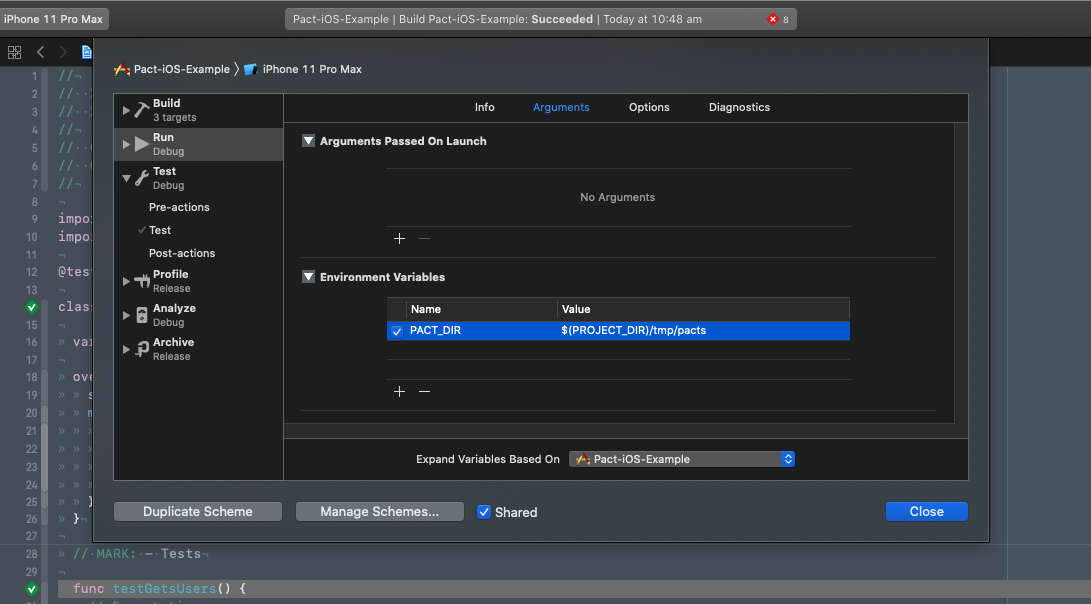
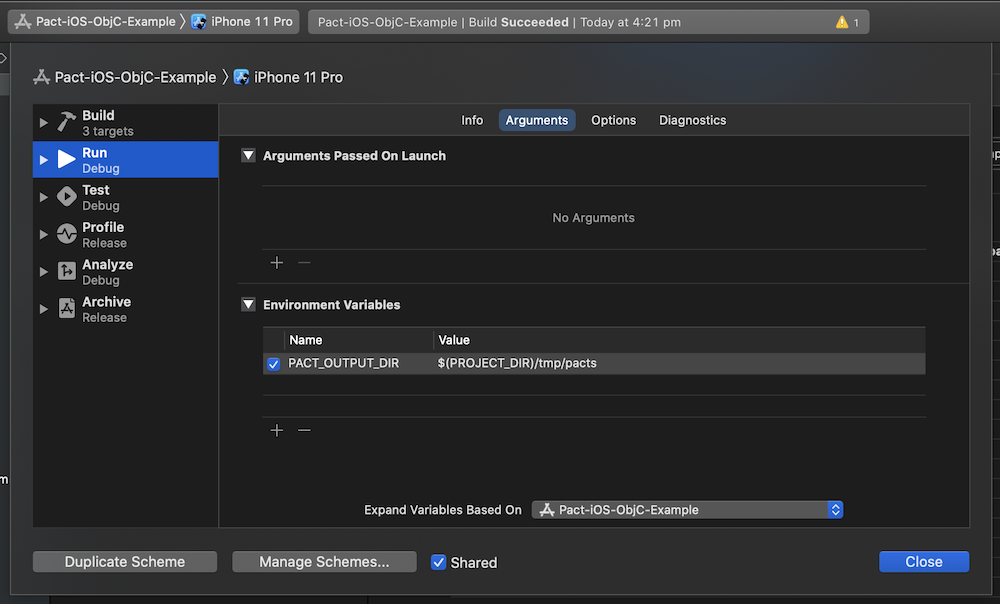
Update README and github templates

diff --git a/README.md b/README.md
@@ -29,7 +29,7 @@ The one major advantage of this framework over [`pact-consumer-swift`][pact-cons
 ### Carthage
 
 ```sh
-github "surpher/PactSwift" ~> 0.1
+github "surpher/PactSwift" ~> 0.3
 ```
 
 ```sh
@@ -56,13 +56,13 @@ swift test -Xlinker -LRelativePathTo/libFolder
 
 ⚠ Using `PactSwift` through SPM requires you to link a `libpact_mock_server.a` for the appropriate architecture. You can find them in `/Resources/` folder.
 
-You can compile your own static lib from [pact-reference/rust][pact-reference-rust] project.
-
-⚠ We're looking for an alternative approach to using static libs with SPM and reducing the size of static lib for obvious reasons! Any ideas and workarounds to reduce the size, storage and saving bandwidth for you and us and for our GitHub Actions to stop piling up the costs for LFS!
+You can also compile your own static lib from [pact-reference/rust][pact-reference-rust] project.
 
 ## Xcode setup - Carthage
 
 **NOTE:** This framework is intended to be used in your test target only! Do not embed it into your app bundle!
+
+⚠ We're looking for an alternative approach to using static libs with SPM and reducing the size of static lib for obvious reasons! Sharing any ideas and workarounds to reduce the size, storage and saving bandwidth for you and us and for our GitHub Actions to stop piling up the costs for LFS are very much apperciated!
 
 ### Setup Framework Build Settings
 
@@ -80,11 +80,13 @@ In your test targets build settings, update `Runpath Search Paths` configuration
 
 #### Destination dir (recommended)
 
-Edit your scheme and add `PACT_DIR` environment variable (`Run` step) with path to the directory you want your Pact contracts to be written to. By default, Pact contracts are written to `/tmp/pacts`.
+Edit your scheme and add `PACT_OUTPUT_DIR` environment variable (`Run` step) with path to the directory you want your Pact contracts to be written to. By default, Pact contracts are written to `/tmp/pacts`.
 
-⚠ Sandboxed apps are limited in where they can write the Pact contract file. The default location is the `Documents` folder in the sandbox (eg: `~/Library/Containers/com.example.your-project-name/Data/Documents`) and *can not* be overriden by the environment variable `PACT_DIR`.
+⚠ Sandboxed apps are limited in where they can write the Pact contract file. The default location is the `Documents` folder in the sandbox (eg: `~/Library/Containers/com.example.your-project-name/Data/Documents`) and *can not* be overriden by the environment variable `PACT_OUTPUT_DIR`.
 
-![destination_dir](./Documentation/images/04_destination_dir.png)
+<p align="center">
+  <img src="Documentation/images/04_destination_dir.png" width="600" alt="destination_dir" />
+</p>
 
 ## Writing Pact tests
 
@@ -200,7 +202,7 @@ Or peek into [/Sources/ExampleGenerators/][pact-swift-example-generators].
 
 ## Verifying your client against the service you are integrating with
 
-If you set the `PACT_PACT_OUTPUT_DIRDIR` environment variable, your Xcode setup is correct and your tests successfully run, then you should see the generated Pact files in:
+If you set the `PACT_OUTPUT_DIR` environment variable, your Xcode setup is correct and your tests successfully run, then you should see the generated Pact files in:
 `$(PACT_OUTPUT_DIR)/_consumer_name_-_provider_name_.json`.
 
 Publish your generated Pact file(s) to your [Pact Broker][pact-broker] or a hosted service, so that your _API-provider_ team can always retrieve them from one location, even when pacts change. Normally you do this regularly in you CI step/s.

diff --git a/.github/ISSUE_TEMPLATE/feature.md b/.github/ISSUE_TEMPLATE/feature.md
@@ -9,7 +9,7 @@ assignees: ''
 
 # 🗣 Context
 
-_Describe the context..._
+<!-- Describe the context... -->
 
 # 💬 Narrative
 
@@ -19,11 +19,11 @@ So that ...
 
 # 📝 Notes
 
-_Provide additional notes..._
+<!--  Provide additional notes... -->
 
 # 🎨 Design
 
-_Provide design example, screenshot, text input/output etc_
+<!-- Provide design example, screenshot, text input/output etc -->
 
 # ✅ Acceptance Criteria
 
@@ -33,4 +33,4 @@ _Provide design example, screenshot, text input/output etc_
 
 # 🚫 Out of Scope
 
-_Describe what is out of scope_
+<!-- Describe what is out of scope -->

diff --git a/.github/ISSUE_TEMPLATE/task.md b/.github/ISSUE_TEMPLATE/task.md
@@ -7,15 +7,15 @@ assignees: ''
 ---
 # ❕ Problem Statement
 
-_Clearly describe what the problem this tech task is attempting to address._
+<!-- Clearly describe what the problem this tech task is attempting to address. -->
 
 # 💬 Task Description
 
-_A clear and concise description of the task._
+<!-- A clear and concise description of the task. -->
 
 # 👩🔧 Technical Design Notes
 
-_Provide any technical design notes here._
+<!-- Provide any technical design notes here. -->
 
 # 🤝 Relationships
 

diff --git a/.github/ISSUE_TEMPLATE/bug.md b/.github/ISSUE_TEMPLATE/bug.md
@@ -18,7 +18,9 @@ assignees: ''
 
 # 🦶 Reproduction Steps
 
-Steps to reproduce the behavior, provide an example of the command line issued:
+<!--  Provide an example of the setup, specific state and exact steps that would help us reproduce the issue -->
+
+Steps to reproduce the behavior: 
 1. Do this...
 2. Run this `xcrun ...`
 3. Etc.
